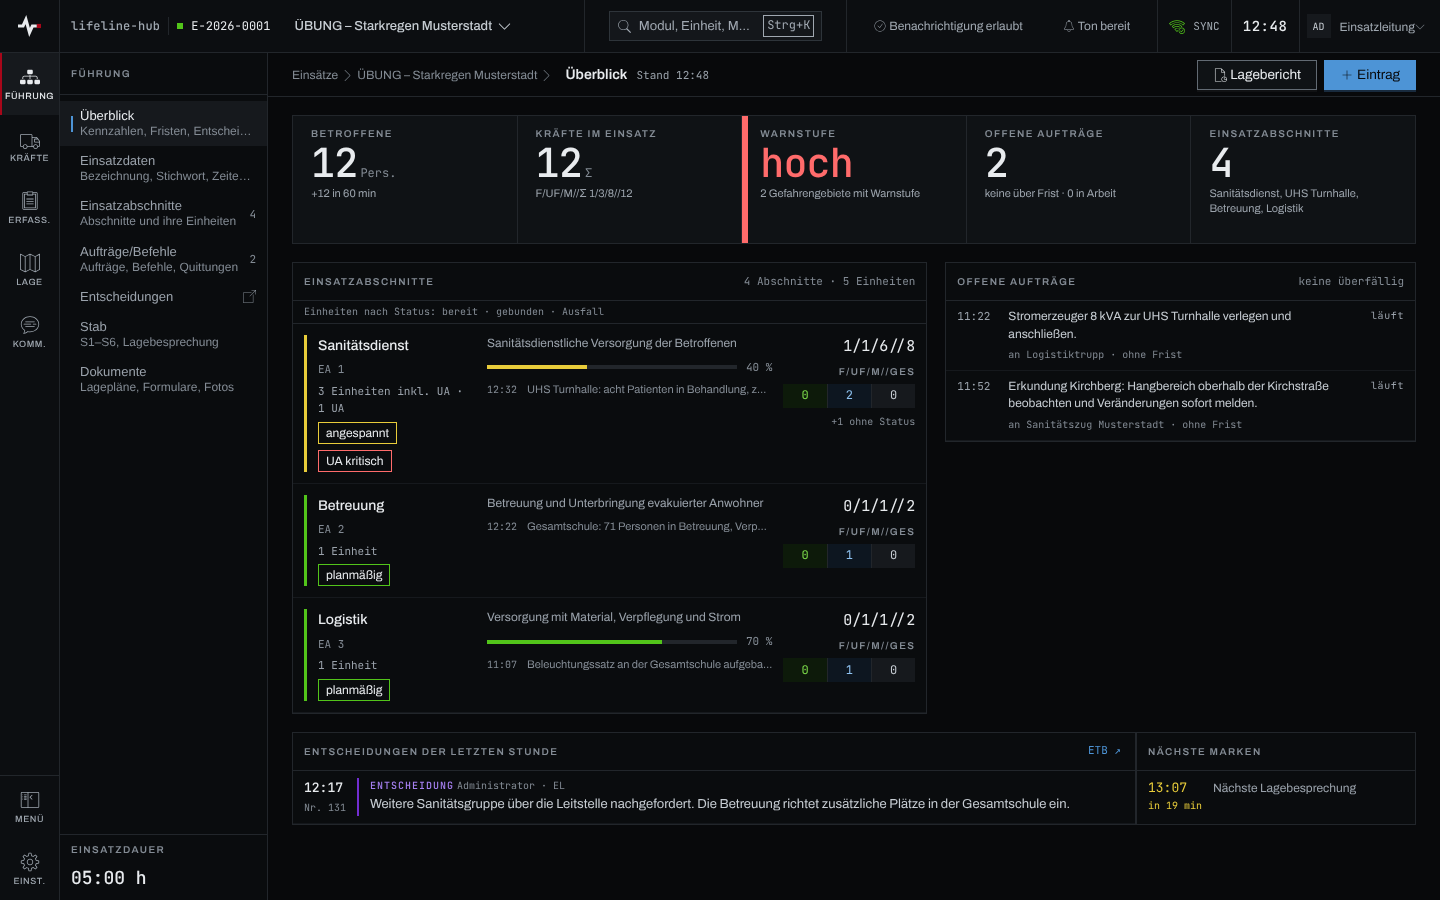
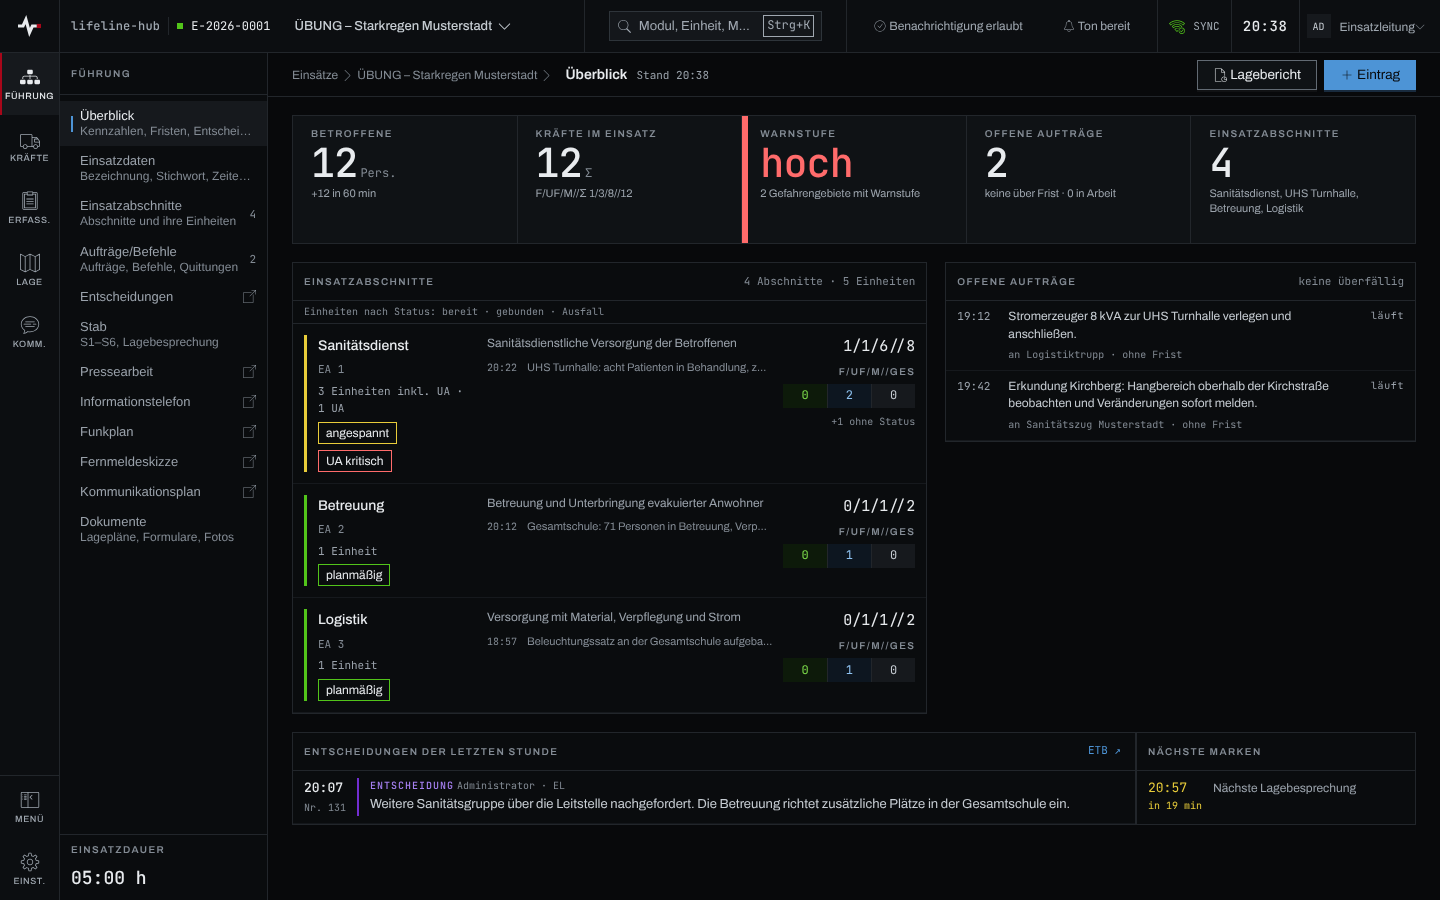
docs(anwender): Stab-Seiten über Modulliste und Sprungpalette
Kapitel Stab, Einsatz-Oberfläche, Funkplan und Presse/Infotelefon nennen
die neuen Wege: Sprungmarken unter „Stab“, Gruppe „Ansichten“ in der
Palette, Schnellaktion „Anruf erfassen“. Bild der Arbeitsfläche (hell
und dunkel) neu erzeugt.

Zunder: https://zunder.rubeen.dev/#/aufgabe/gw8jul0fpxfzgwbk1jt7g7qq

Claude-Session: https://claude.ai/code/session_01A3ETinyBb4pTW83wyVuYNN

Changed region(s): [[0.0625, 0.4044, 0.1562, 0.6222], [0.3438, 0.6844, 0.5312, 0.7467], [0.3438, 0.4044, 0.5312, 0.4356]]

diff --git a/docs/anwender/kapitel/stab.md b/docs/anwender/kapitel/stab.md
@@ -2,7 +2,7 @@
 titel: Stab, Checkliste und Lagebesprechung
 gruppen: [fuehrung]
 reihenfolge: 430
-quellen: [frontend/src/pages/StabPage.tsx, frontend/src/stab/BesetzungModal.tsx, frontend/src/stab/besetzung.ts, frontend/src/stab/sachgebiete.ts, frontend/src/stab/unterseiten.ts, frontend/src/stab/useStabFreigabe.tsx, frontend/src/stab/VorbereitungPaneel.tsx, frontend/src/stab/vorbereitung.ts, frontend/src/stab/LagebesprechungModal.tsx, frontend/src/stab/LagebesprechungStand.tsx, frontend/src/stab/LagebesprechungHistorie.tsx, frontend/src/stab/lagebesprechungZustand.ts, frontend/src/stab/ChecklistePaneel.tsx, frontend/src/stab/checkliste.ts, frontend/src/einsatz/schreibrecht.ts, src/routes/stab.rs, src/stab/mod.rs, src/stab/repo.rs, src/stab/checkliste.rs]
+quellen: [frontend/src/pages/StabPage.tsx, frontend/src/stab/BesetzungModal.tsx, frontend/src/stab/besetzung.ts, frontend/src/stab/sachgebiete.ts, frontend/src/stab/unterseiten.ts, frontend/src/einsatz/sprungmarken.ts, frontend/src/stab/useStabFreigabe.tsx, frontend/src/stab/VorbereitungPaneel.tsx, frontend/src/stab/vorbereitung.ts, frontend/src/stab/LagebesprechungModal.tsx, frontend/src/stab/LagebesprechungStand.tsx, frontend/src/stab/LagebesprechungHistorie.tsx, frontend/src/stab/lagebesprechungZustand.ts, frontend/src/stab/ChecklistePaneel.tsx, frontend/src/stab/checkliste.ts, frontend/src/einsatz/schreibrecht.ts, src/routes/stab.rs, src/stab/mod.rs, src/stab/repo.rs, src/stab/checkliste.rs]
 ---
 
 ## Überblick
@@ -87,6 +87,15 @@ Fundstelle in der FwDV 100 und die Werkzeuge des Sachgebiets als Verweise, etwa 
 „Informationstelefon“ bei S5, „Funkplan“ und „Kommunikationsplan“ bei S6. Ein Verweis auf ein
 gesperrtes Modul fehlt. Eine Besetzung wird überschrieben; die App führt keine Historie, der
 Verlauf steht im Einsatztagebuch.
+
+### Ohne Umweg über die Stab-Seite
+
+Pressearbeit, Informationstelefon, Funkplan, Fernmeldeskizze und Kommunikationsplan stehen auch in
+der Modulliste direkt unter „Stab“, in dieser Reihenfolge, und in der Sprungpalette unter
+„Ansichten“: „Funk“ findet den Funkplan, „Bürgertelefon“ das Informationstelefon. „Anruf erfassen“
+in der Palette öffnet das Informationstelefon mit dem Cursor in der Erfassung. Ist der Stab
+gesperrt, stehen die Einträge in der Modulliste mit Schloss und fehlen in der Palette; ist er
+ausgeblendet, fehlen sie überall.
 
 ### Was ins Einsatztagebuch geht
 

diff --git a/openspec/changes/gw8jul0f-stab-sprungmarken-palette/tasks.md b/openspec/changes/gw8jul0f-stab-sprungmarken-palette/tasks.md
@@ -11,7 +11,7 @@
 
 - [x] 2.1 Test zuerst (rot) in `befehle.test.ts`: Gruppe `ansichten` mit allen freien Marken (Id `ansicht:<key>`, Kontext und Icon des Zielmoduls, `sprungZu`-Ziel = Markenpfad), keine Zeile bei gesperrtem oder ausgeblendetem Zielmodul, `oeffnung` reicht bis `navigate` (bestehender Guard); dann Gruppe in `typen.ts` (`GRUPPEN_REIHENFOLGE` hinter `module`, `GRUPPEN_LABEL` „Ansichten“, `GRUPPE_MERKBAR` true) und Schleife in `baueBefehle` (D4); `typen.test.ts` und Vitest grün
 - [x] 2.2 Rangtest: „Funk“ → erster Treffer „Funkplan“, „bürgertelefon“ → „Informationstelefon“, „entscheid“ → „Entscheidungen“ (`CommandPalette.test.tsx` bzw. `fuzzy.test.ts`); Strg/⌘+↵ auf „Funkplan“ öffnet im neuen Tab (`CommandPalette.oeffnung.test.tsx`); Startansicht: „Ansichten“ unter „Module“, gemerkte Marke fehlt dort (`kernId`); Vitest grün
-- [ ] 2.3 e2e `command-palette.spec.ts`: „Funk“ tippen, ↵ → Funkplan-Seite (Chromium) grün
+- [x] 2.3 e2e `command-palette.spec.ts`: „Funk“ tippen, ↵ → Funkplan-Seite (Chromium) grün
 - [x] 2.4 Regeln: Abschnitt „Ansichten“ in `frontend/src/command-palette/AGENTS.md` (D8); `prettier --check` grün
 
 ## 3. Schnellaktion „Anruf erfassen“
@@ -22,8 +22,8 @@
 
 ## 4. Anwenderdoku
 
-- [ ] 4.1 Kapitel `stab.md` (Einstiege über Menü und Palette, „Anruf erfassen“) und `einsatz-oberflaeche.md` (Sprungmarken, Gruppe „Ansichten“) nachziehen; jedes weitere Kapitel, dessen `quellen:` einen berührten Pfad nennt, prüfen; `anwenderdoku.guard.test.ts` grün
-- [ ] 4.2 Bilder der Kapitel neu erzeugen, deren Ansicht sich ändert (Modulpanel „Führung“, Startansicht der Palette): `pnpm doku:bilder --grep <kapitel>` und committen; ist der Bildlauf in der Umgebung nicht lauffähig, im PR vermerken
+- [x] 4.1 Kapitel `stab.md` (Einstiege über Menü und Palette, „Anruf erfassen“) und `einsatz-oberflaeche.md` (Sprungmarken, Gruppe „Ansichten“) nachziehen; jedes weitere Kapitel, dessen `quellen:` einen berührten Pfad nennt, prüfen; `anwenderdoku.guard.test.ts` grün
+- [x] 4.2 Bilder der Kapitel neu erzeugen, deren Ansicht sich ändert (Modulpanel „Führung“, Startansicht der Palette): `pnpm doku:bilder --grep <kapitel>` und committen; ist der Bildlauf in der Umgebung nicht lauffähig, im PR vermerken
 
 ## 5. Abschluss
 

diff --git a/docs/anwender/kapitel/einsatz-oberflaeche.md b/docs/anwender/kapitel/einsatz-oberflaeche.md
@@ -132,8 +132,10 @@ Berechtigung“ da. Was die eigene Rolle im Einsatz erlaubt, steht in
 Unten in der Modulliste läuft die **Einsatzdauer** seit Beginn des Einsatzes.
 
 Einige Einträge der Modulliste sind **Sprungmarken** in ein anderes Modul: „Entscheidungen“
-(Einsatztagebuch, nur Entscheidungen), „Patienten“ und „Vermisste“ (Betroffene) sowie
-„FMS-Tableau“ (Fahrzeuge).
+(Einsatztagebuch, nur Entscheidungen), „Patienten“ und „Vermisste“ (Betroffene), „FMS-Tableau“
+(Fahrzeuge) sowie unter „Stab“ dessen Arbeitsseiten „Pressearbeit“, „Informationstelefon“,
+„Funkplan“, „Fernmeldeskizze“ und „Kommunikationsplan“. Eine Sprungmarke ist gesperrt oder fehlt,
+wenn ihr Zielmodul gesperrt ist oder fehlt.
 
 Wer aus einem Einsatz ins Profil oder in die Verwaltung wechselt, findet dort „Zurück zu …“: Es
 führt an die zuletzt geöffnete Stelle des Einsatzes zurück, solange er läuft.
@@ -141,10 +143,11 @@ führt an die zuletzt geöffnete Stelle des Einsatzes zurück, solange er läuft
 ### Was die Sprungpalette kennt
 
 Ohne Eingabe stehen oben die zuletzt ausgeführten Befehle und die zuletzt geöffneten Module.
-Mit Eingabe sucht die Palette in Modulen, Schnellaktionen („Person erfassen“, „ETB-Eintrag
-schreiben“ …), laufenden Einsätzen, Einstellungen und, ab zwei Zeichen, in den Datensätzen des
+Mit Eingabe sucht die Palette in Modulen, Ansichten (den Sprungmarken der Modulliste, etwa
+„Funkplan“ oder „Vermisste“), Schnellaktionen („Person erfassen“, „ETB-Eintrag schreiben“,
+„Anruf erfassen“ …), laufenden Einsätzen, Einstellungen und, ab zwei Zeichen, in den Datensätzen des
 Einsatzes: Personen, Fahrzeuge, Personal, Einheiten, Einträge des Einsatztagebuchs und weitere.
-Module, die der Einsatz nicht freigibt, fehlen; Schnellaktionen stehen nur dort, wo die eigene
+Module und Ansichten, die der Einsatz nicht freigibt, fehlen; Schnellaktionen stehen nur dort, wo die eigene
 Rolle schreiben darf.
 
 „Koordinaten: …“ in der Palette stellt das Koordinatenformat für dieses Gerät ein. Es gilt vor

diff --git a/docs/anwender/kapitel/funkplan.md b/docs/anwender/kapitel/funkplan.md
@@ -18,7 +18,7 @@ Einsatzleitung und Führungspersonal.
 
 ### Den Funkplan lesen und Lücken schließen
 
-1. „Stab“ öffnen und in der Zeile S6 „Funkplan“ wählen.
+1. In der Modulliste unter „Stab“ „Funkplan“ wählen, oder in der Sprungpalette „Funk“ tippen.
 2. In der Leiste „Darstellung“ „Tabelle“ wählen. Oben stehen die „Lücken“, darunter der Plan von
    der Führungsstelle über die Abschnitte bis zu Einheiten und Fahrzeugen.
 
@@ -38,7 +38,8 @@ Einsatzleitung und Führungspersonal.
 
 ### Die Fernmeldeskizze bearbeiten
 
-1. Im Funkplan in der Leiste „Darstellung“ „Skizze“ wählen.
+1. Im Funkplan in der Leiste „Darstellung“ „Skizze“ wählen, oder in der Modulliste unter „Stab“
+   gleich „Fernmeldeskizze“.
 
    ![Fernmeldeskizze mit Einsatzleitung, Sprechgruppen als Schienen, Abschnitten, Einheiten und externen Stellen](../bilder/funkplan/skizze.png)
 
@@ -54,7 +55,8 @@ Einsatzleitung und Führungspersonal.
 
 ### Eine Stelle in den Kommunikationsplan aufnehmen
 
-1. „Stab“ öffnen und in der Zeile S6 „Kommunikationsplan“ wählen.
+1. In der Modulliste unter „Stab“ „Kommunikationsplan“ wählen, oder „Stab“ öffnen und in der Zeile
+   S6 „Kommunikationsplan“ wählen.
 
    ![Kommunikationsplan mit Einsatzleitung und Stab, abgeleiteten Abschnitten und externen Stellen](../bilder/funkplan/kommunikationsplan.png)
 

diff --git a/docs/anwender/kapitel/presse-infotelefon.md b/docs/anwender/kapitel/presse-infotelefon.md
@@ -17,7 +17,8 @@ Führungspersonal. Eine Pressemitteilung gibt nur die Einsatzleitung frei.
 
 ### Einen Medienkontakt erfassen
 
-1. „Stab“ öffnen und in der Zeile S5 „Pressearbeit“ wählen.
+1. In der Modulliste unter „Stab“ „Pressearbeit“ wählen, oder „Stab“ öffnen und in der Zeile S5
+   „Pressearbeit“ wählen.
 2. „Medienkontakt erfassen“ wählen.
 3. „Art“ (Anfrage, Abstimmung oder Termin), „Medium“ und „Thema“ eintragen. Unter „Ansprechperson
    und Uhrzeit“ stehen „Ansprechperson“, „Erreichbarkeit“ und „Eingang“ (leer gilt jetzt).
@@ -58,7 +59,8 @@ neuen Entwurf an, der auf ihr aufbaut.
 
 ### Einen Anruf am Informationstelefon erfassen
 
-1. „Stab“ öffnen und in der Zeile S5 „Informationstelefon“ wählen.
+1. In der Sprungpalette „Anruf erfassen“ wählen: das Informationstelefon öffnet sich, der Cursor
+   steht im „Anliegen“. Ohne Palette: in der Modulliste unter „Stab“ „Informationstelefon“ wählen.
 2. In der Leiste unten das „Anliegen“ wählen und eine „Notiz zum Anruf“ eintragen.
 
    ![Informationstelefon mit Kennzahlen, Aufgliederung nach Anliegen, Anrufprotokoll und Erfassungsleiste](../bilder/presse-infotelefon/infotelefon.png)
